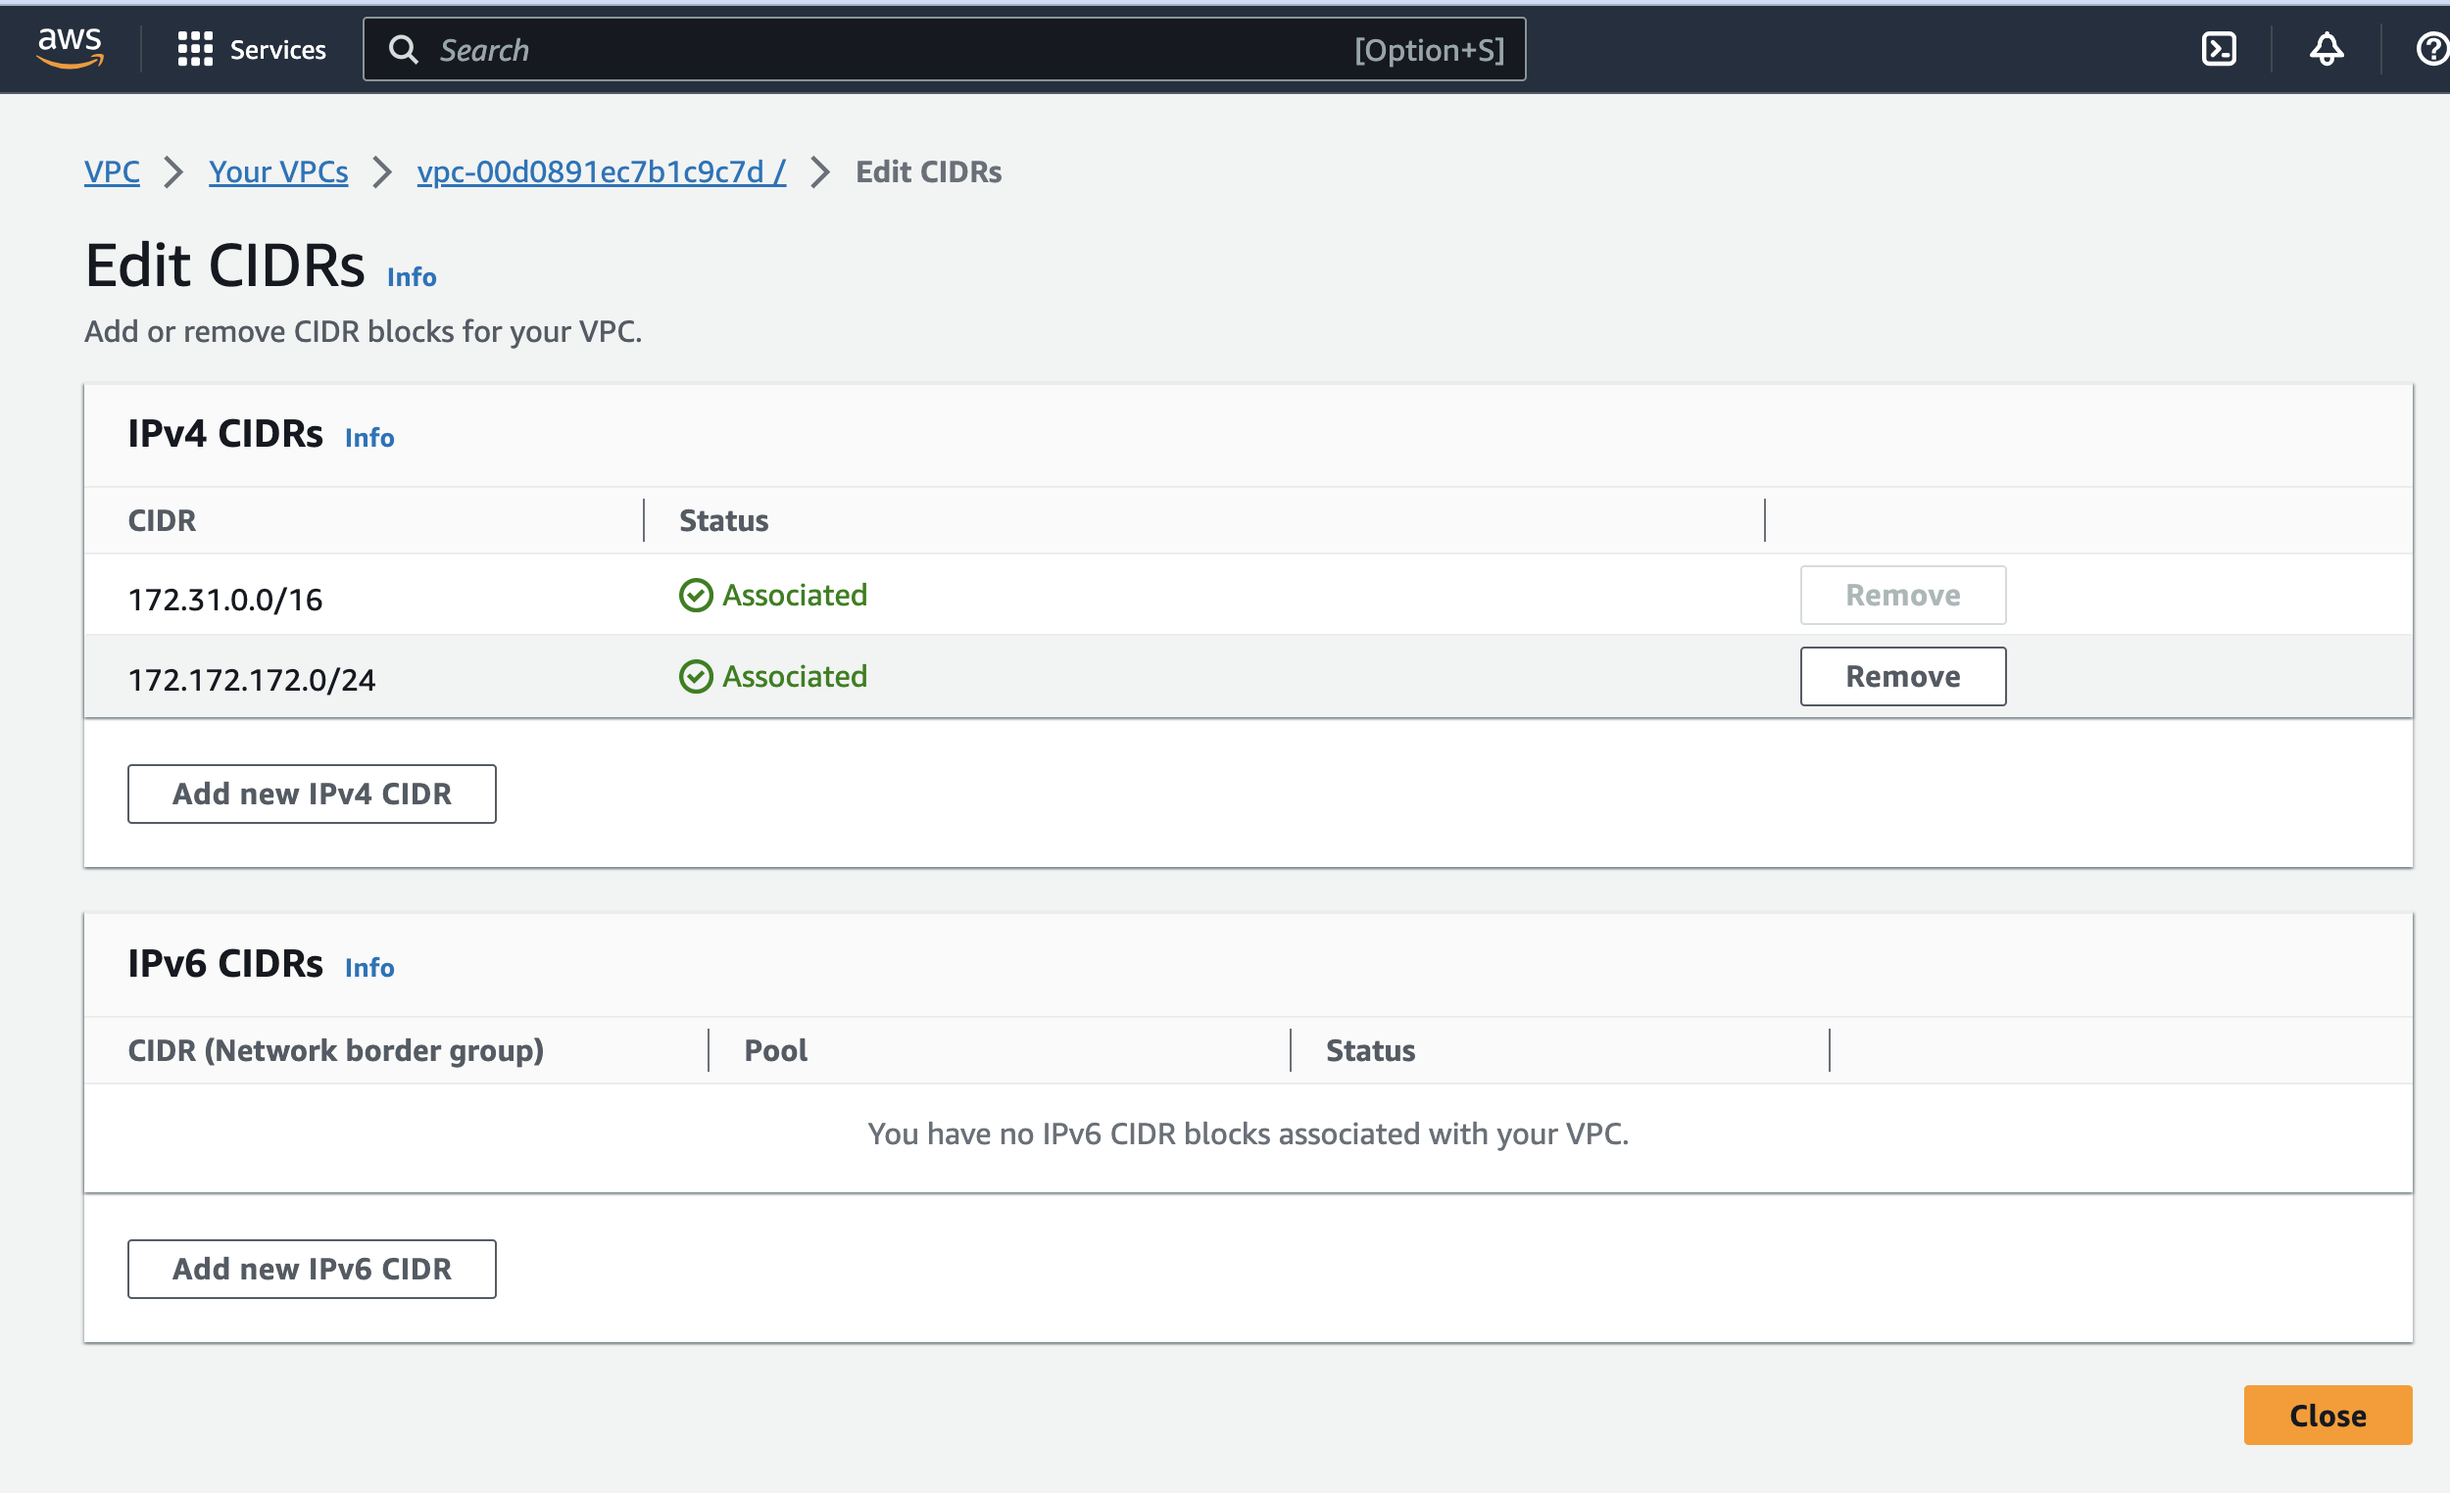
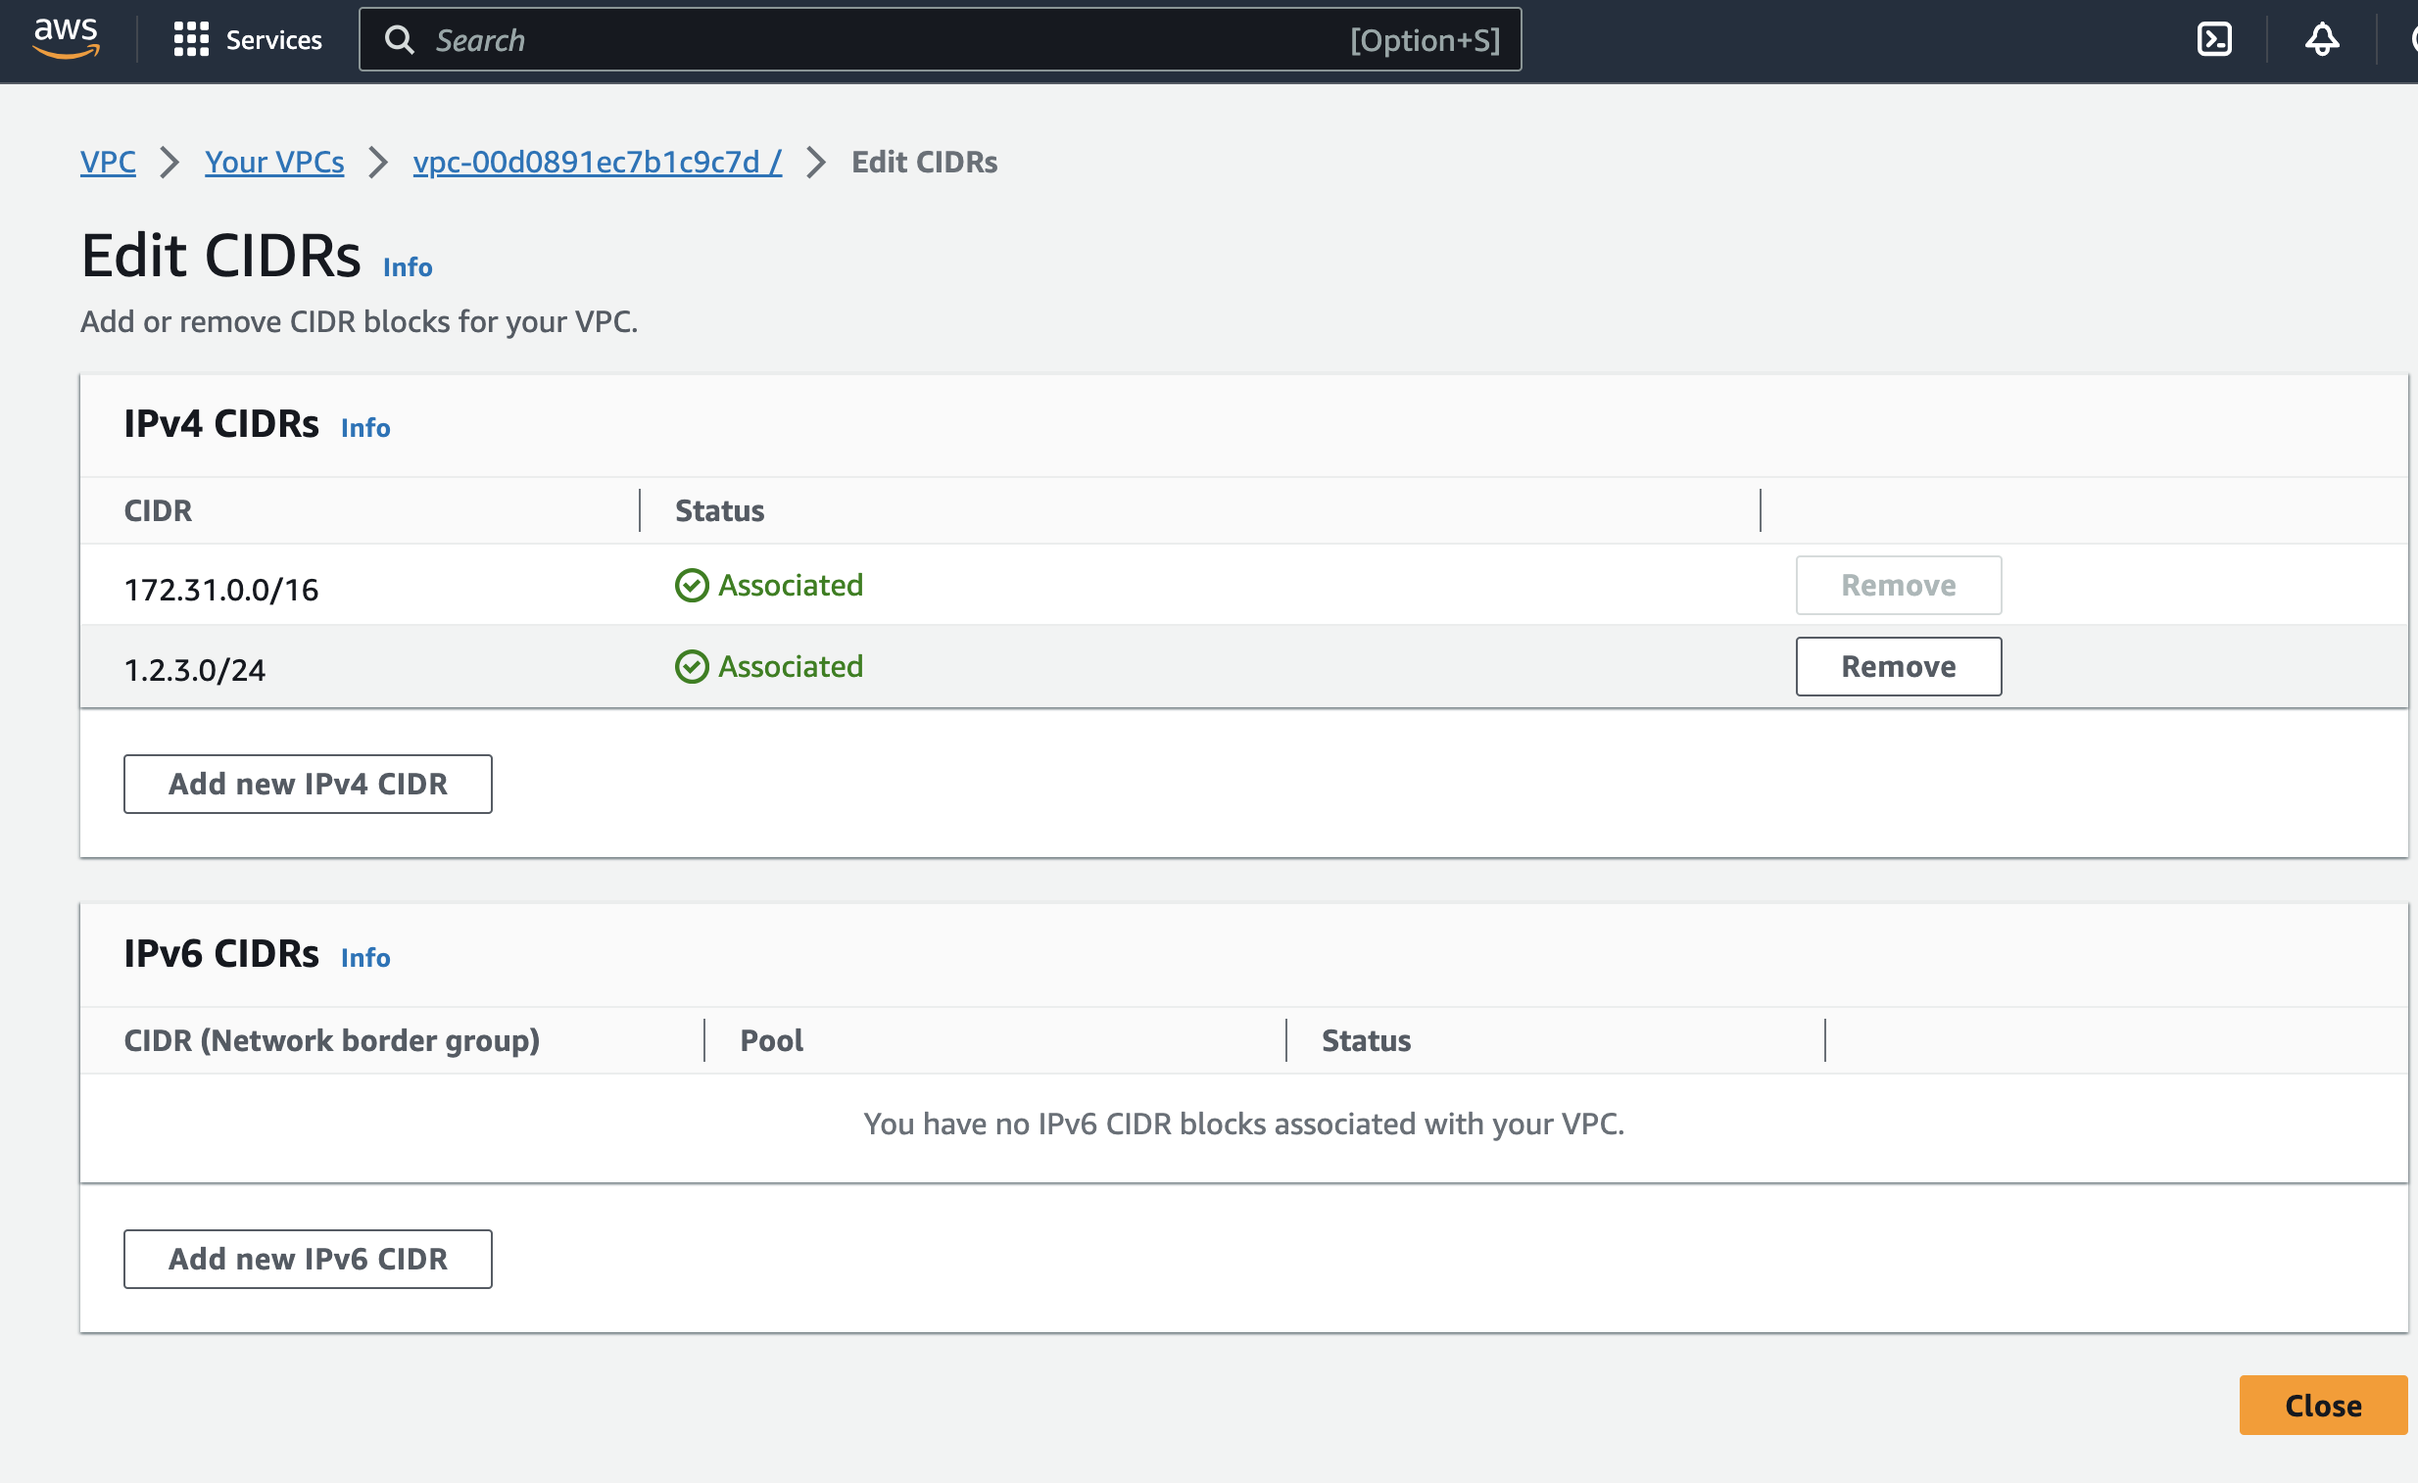
updating CIDR lesson with better subnet

diff --git a/docs/courses/14-Cloud_Computing/lessons/aws-vpc.md b/docs/courses/14-Cloud_Computing/lessons/aws-vpc.md
@@ -13,7 +13,7 @@ To create a CIDR in your existing VPC's you can follow these steps.
 
 ![VPC](select-vpc.png)
 
-2. Now select your VPC and go the Action menu and select edit CIDR's. This will allow you to create a new subnet you can define when you launch instances. For example if you wanted to creat a small 172.172.172.0/24 CIDR that you can put your Windows and Linux instances in. It would allow you to create the CIDR and then all the resoures in that CIDR could talk to one another as long as you have a security group assigned to those instances that allows communication between the nodes.
+2. Now select your VPC and go the Action menu and select edit CIDR's. This will allow you to create a new subnet you can define when you launch instances. For example if you wanted to creat a small 1.2.3.0/24 CIDR that you can put your Windows and Linux instances in. It would allow you to create the CIDR and then all the resoures in that CIDR could talk to one another as long as you have a security group assigned to those instances that allows communication between the nodes.
 
 ![VPC](add-subnets.png)
 
